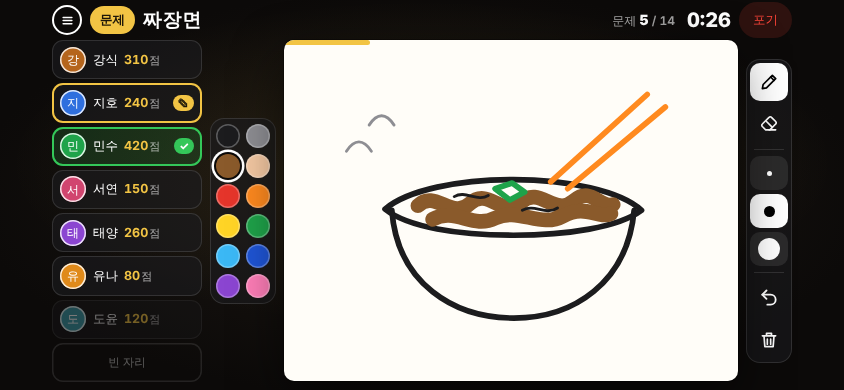
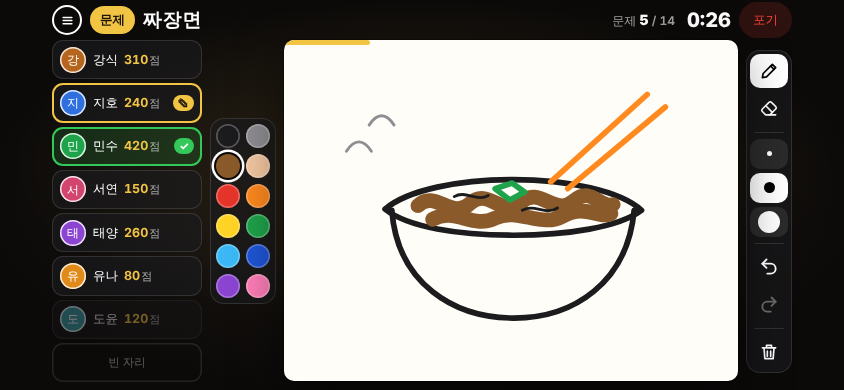
갱식마인드: 시안 수정 중간 저장
Claude-Session: https://claude.ai/code/session_01HLnaqZjB45q4jBceVSssci

diff --git a/design/draw/index.html b/design/draw/index.html
@@ -85,6 +85,7 @@ svg{display:block}
 .dr-tools{grid-column:4;align-self:start;margin-top:calc(var(--strip) + 10px);display:flex;flex-direction:column;gap:6px;padding:6px;border-radius:18px;background:var(--panel);box-shadow:inset 0 0 0 1px var(--hair)}
 .dr-tool{height:54px;border-radius:13px;display:flex;flex-direction:column;align-items:center;justify-content:center;gap:2px;font-size:10.5px;color:var(--ink2);font-weight:600;white-space:nowrap}
 .dr-tool svg{width:22px;height:22px;color:#fff}
+.dr-tool.dim{opacity:.35}
 .dr-tool.on{background:#fff;color:#000}.dr-tool.on svg{color:#000}
 .dr-tools hr{border:0;height:1px;background:var(--hair);margin:2px 4px}
 .dr-sizes{display:flex;gap:6px;align-items:center}
@@ -205,9 +206,9 @@ svg{display:block}
   .dr-board{grid-column:3;grid-row:1/3}
   .dr-pal{grid-column:2;grid-row:1/3;margin-top:0;gap:6px;padding:6px;border-radius:14px;align-self:center}
   .dr-tools{grid-column:4;grid-row:1/3;margin-top:0;gap:4px;padding:4px;border-radius:14px;align-self:center}
-  .dr-tool{height:38px;width:38px;border-radius:10px;font-size:0;gap:0}
+  .dr-tool{height:34px;width:38px;border-radius:10px;font-size:0;gap:0}
   .dr-tool svg{width:20px;height:20px}
-  .dr-tools .dr-size{width:38px;height:34px;border-radius:10px}
+  .dr-tools .dr-size{width:38px;height:30px;border-radius:10px}
   .dr-canvas{border-radius:10px}
   /* 맞히는 사람: 색·도구 자리가 없고, 오른쪽에 채팅 기록 */
   .guess .dr-stage{grid-template-columns:var(--pw) var(--cw) minmax(0,1fr)}
@@ -274,6 +275,7 @@ const I = {
   pen: '<svg viewBox="0 0 24 24" fill="none" stroke="currentColor" stroke-width="2" stroke-linecap="round" stroke-linejoin="round"><path d="M4 20l1-5L16 4l4 4L9 19l-5 1z"/><path d="M14 6l4 4"/></svg>',
   era: '<svg viewBox="0 0 24 24" fill="none" stroke="currentColor" stroke-width="2" stroke-linecap="round" stroke-linejoin="round"><path d="M8 19l-4-4a2 2 0 010-3l8-8a2 2 0 013 0l5 5a2 2 0 010 3l-7 7H8z"/><path d="M9 9l7 7M12 19h8"/></svg>',
   undo: '<svg viewBox="0 0 24 24" fill="none" stroke="currentColor" stroke-width="2.2" stroke-linecap="round" stroke-linejoin="round"><path d="M9 13L4 8l5-5"/><path d="M4 8h10a6 6 0 010 12h-4"/></svg>',
+  redo: '<svg viewBox="0 0 24 24" fill="none" stroke="currentColor" stroke-width="2.2" stroke-linecap="round" stroke-linejoin="round"><path d="M15 13l5-5-5-5"/><path d="M20 8H10a6 6 0 000 12h4"/></svg>',
   trash: '<svg viewBox="0 0 24 24" fill="none" stroke="currentColor" stroke-width="2" stroke-linecap="round" stroke-linejoin="round"><path d="M4 7h16M9 7V4h6v3M6 7l1 13h10l1-13M10 11v6M14 11v6"/></svg>',
 };
 // 가짜 그림: 짜장면
@@ -343,7 +345,7 @@ function game(o) {
      ${tools ? `<div class="dr-tools">
         <button class="dr-tool on">${I.pen}펜</button><button class="dr-tool">${I.era}지우개</button><hr>
         ${[5, 11, 22].map((d, i) => `<button class="dr-size dr-ph ${i === 1 ? 'on' : ''}"><i style="width:${d}px;height:${d}px"></i></button>`).join('')}<hr class="dr-ph">
-        <button class="dr-tool">${I.undo}되돌리기</button><button class="dr-tool">${I.trash}전체 지우기</button></div>` : ''}
+        <button class="dr-tool">${I.undo}되돌리기</button><button class="dr-tool dim">${I.redo}다시 하기</button><hr><button class="dr-tool">${I.trash}전체 지우기</button></div>` : ''}
      <div class="dr-seats r">${PL.slice(4).map((p, i) => seat(p, i + 4, o)).join('')}</div>
      <div class="dr-log"><p><b>서연</b>우동</p><p><b>태양</b>라면??</p><p><b>유나</b>스파게티</p><p class="sys">민수 님 정답!</p>${o.rev ? '<p class="sys">태양 님 정답!</p><p class="sys">강식 님 정답!</p>' : '<p><b>강식</b>젓가락</p>'}</div>
    </div>
